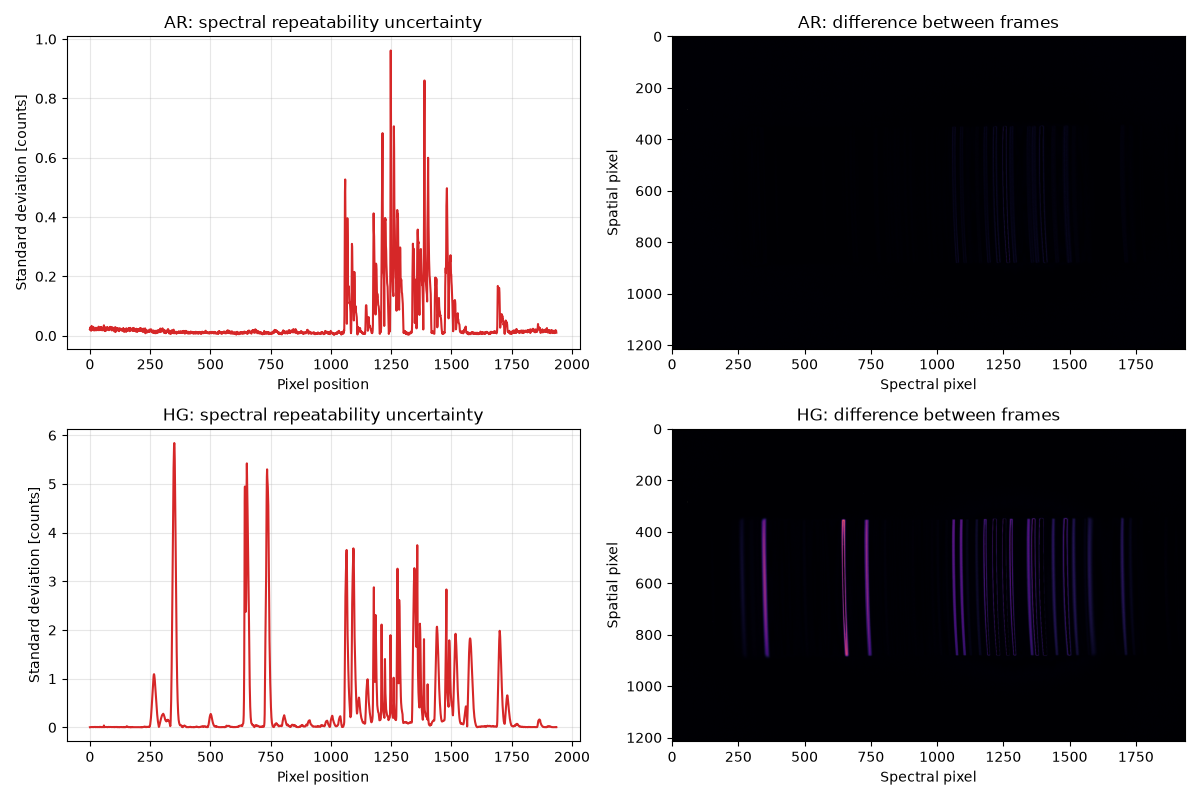
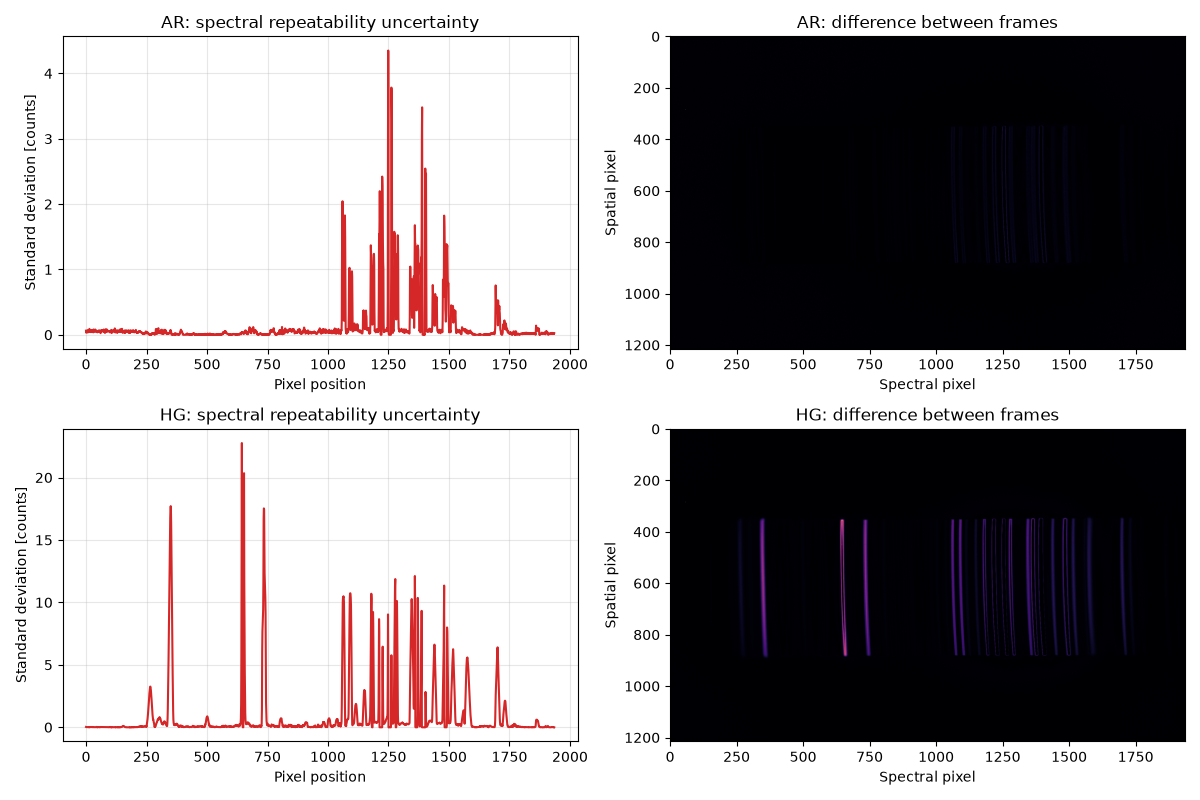
Add repeatability tests

diff --git a/repeated_spectra_uncertainty.py b/repeated_spectra_uncertainty.py
@@ -3,62 +3,44 @@ import matplotlib.pyplot as plt
 import numpy as np
 from PIL import Image
 
-element = "HG" # AR/HG
+elements = ["AR", "HG"]
 folder = Path("Data") / "Spectral"
-files = sorted(folder.glob(f"SpecCal_{element}_800exp_*.png"))
-
-images = []
-for file in files:
-    with Image.open(file) as image:
-        images.append(np.asarray(image.convert("L"), dtype=float))
-
-images = np.stack(images)
-mean_image = np.mean(images, axis=0)
-std_image = np.std(images, axis=0, ddof=1)
-
-# Average over rows to produce one spectrum for each repeated frame.
-spectra = images.mean(axis=1)
-mean_spectrum = spectra.mean(axis=0)
-std_spectrum = spectra.std(axis=0, ddof=1)
-pixels = np.arange(images.shape[2])
-
-print(f"Images: {len(files)}")
-print(f"Image size: {images.shape[2]} x {images.shape[1]} pixels")
-print(f"Mean pixel uncertainty: {std_image.mean():.4f} counts")
-print(f"Maximum pixel uncertainty: {std_image.max():.4f} counts")
-print(f"Mean spectrum uncertainty: {std_spectrum.mean():.4f} counts")
+row_band = slice(580, 620)  # Narrow band around the calibration row (y=600) to limit smile-induced blurring.
 
 figure, axes = plt.subplots(2, 2, figsize=(12, 8))
 
-axes[0, 0].plot(pixels, mean_spectrum, color="black", label="Mean spectrum")
-axes[0, 0].fill_between(
-    pixels,
-    mean_spectrum - std_spectrum,
-    mean_spectrum + std_spectrum,
-    color="tab:blue",
-    alpha=0.3,
-    label="±1 standard deviation",
-)
-axes[0, 0].set_ylabel("Intensity [counts]")
-axes[0, 0].set_title(f"{element}: mean spectrum")
-axes[0, 0].legend()
-axes[0, 0].grid(alpha=0.3)
+for row, element in enumerate(elements):
+    files = sorted(folder.glob(f"SpecCal_{element}_800exp_*.png"))
 
-axes[0, 1].plot(pixels, std_spectrum, color="tab:red")
-axes[0, 1].set_xlabel("Pixel position")
-axes[0, 1].set_ylabel("Standard deviation [counts]")
-axes[0, 1].set_title("Spectral repeatability uncertainty")
-axes[0, 1].grid(alpha=0.3)
+    images = []
+    for file in files:
+        with Image.open(file) as image:
+            images.append(np.asarray(image.convert("L"), dtype=float))
 
-axes[1, 0].imshow(mean_image, cmap="gray", aspect="auto")
-axes[1, 0].set_xlabel("Spectral pixel")
-axes[1, 0].set_ylabel("Spatial pixel")
-axes[1, 0].set_title("Mean image: overlap of all frames")
+    images = np.stack(images)
+    std_image = np.std(images, axis=0, ddof=1)
 
-axes[1, 1].imshow(std_image, cmap="magma", aspect="auto")
-axes[1, 1].set_xlabel("Spectral pixel")
-axes[1, 1].set_ylabel("Spatial pixel")
-axes[1, 1].set_title("Difference between frames")
+    # Average over a narrow row band to produce one spectrum for each repeated frame.
+    spectra = images[:, row_band, :].mean(axis=1)
+    std_spectrum = spectra.std(axis=0, ddof=1)
+    pixels = np.arange(images.shape[2])
+
+    print(f"{element} images: {len(files)}")
+    print(f"{element} image size: {images.shape[2]} x {images.shape[1]} pixels")
+    print(f"{element} mean pixel uncertainty: {std_image.mean():.4f} counts")
+    print(f"{element} maximum pixel uncertainty: {std_image.max():.4f} counts")
+    print(f"{element} mean spectrum uncertainty: {std_spectrum.mean():.4f} counts")
+
+    axes[row, 0].plot(pixels, std_spectrum, color="tab:red")
+    axes[row, 0].set_xlabel("Pixel position")
+    axes[row, 0].set_ylabel("Standard deviation [counts]")
+    axes[row, 0].set_title(f"{element}: spectral repeatability uncertainty")
+    axes[row, 0].grid(alpha=0.3)
+
+    axes[row, 1].imshow(std_image, cmap="magma", aspect="auto")
+    axes[row, 1].set_xlabel("Spectral pixel")
+    axes[row, 1].set_ylabel("Spatial pixel")
+    axes[row, 1].set_title(f"{element}: difference between frames")
 
 figure.tight_layout()
 plt.show()

diff --git a/overlay_calibration_wavelengths.py b/overlay_calibration_wavelengths.py
@@ -1,0 +1,49 @@
+from pathlib import Path
+
+import matplotlib.pyplot as plt
+import numpy as np
+from PIL import Image
+
+# Same calibration points as spectogram_calibration.py: first 3 are mercury
+# lines (the third is the 576.96/579.06 nm doublet), last 3 are argon lines.
+wavelength = np.array([435.83, 546.07, (576.96 + 579.06) / 2, 696.54, 706.72, 763.51])
+pixels = np.array([347, 647, 735, 1064, 1092, 1255])
+
+image_path = Path("Results") / "spectral_blended.png"
+with Image.open(image_path) as image:
+    blended = np.asarray(image)
+
+# Quadratic pixel-to-wavelength model, used only to label the top axis;
+# the calibration lines themselves are drawn at their measured pixel values.
+coefficients = np.polyfit(pixels, wavelength, 2)
+pixel_to_wavelength = lambda p: np.polyval(coefficients, p)
+
+figure, image_axis = plt.subplots(figsize=(14, 6))
+image_axis.imshow(blended, aspect="auto")
+image_axis.set_xlabel("Pixel position")
+image_axis.set_ylabel("Spatial pixel")
+image_axis.set_title("Merged spectral image with calibration wavelengths")
+
+label_transform = image_axis.get_xaxis_transform()  # x in data coords, y in axes fraction
+for pixel, wl in zip(pixels, wavelength):
+    image_axis.axvline(pixel, color="white", linestyle="--", linewidth=1, alpha=0.8)
+    image_axis.text(
+        pixel,
+        -0.03,
+        f"{wl:.2f} nm",
+        transform=label_transform,
+        color="black",
+        rotation=90,
+        ha="right",
+        va="top",
+        fontsize=8,
+        clip_on=False,
+    )
+
+wavelength_axis = image_axis.secondary_xaxis(
+    "top", functions=(pixel_to_wavelength, lambda wl: np.interp(wl, pixel_to_wavelength(np.arange(blended.shape[1])), np.arange(blended.shape[1])))
+)
+wavelength_axis.set_xlabel("Wavelength [nm] (quadratic calibration)")
+
+figure.subplots_adjust(bottom=0.28, top=0.85)
+plt.show()

diff --git a/spectogram_calibration.py b/spectogram_calibration.py
@@ -3,12 +3,12 @@ import matplotlib.pyplot as plt
 import numpy as np
 from scipy.interpolate import CubicSpline
 
-wavelength = np.array([435.83, 546.07, 577.71, 696.54, 706.72, 763.51, 810.36]) # First 3 values are mercury lines, last 5 are argon lines.
-pixels = np.array([347, 647, 735, 1064, 1092, 1255, 1395]) # Pixel values found by manual inspection
+wavelength = np.array([435.83, 546.07, (576.96+579.06)/2, 696.54, 706.72, 763.51]) # First 3 values are mercury lines(the third is a dublet), last 3 are argon lines.
+pixels = np.array([347, 647, 735, 1064, 1092, 1255]) # Pixel values found by manual inspection
 
 image_pixels = np.linspace(pixels.min(), pixels.max(), 1000)
 
-leave_out = 1 # Number of points to leave out when interpolating. 
+leave_out = 0 # Number of points to leave out when interpolating. 
               # Cubic spline will always fit all points so it will always give RMSE = 0 without leave out
 
 
